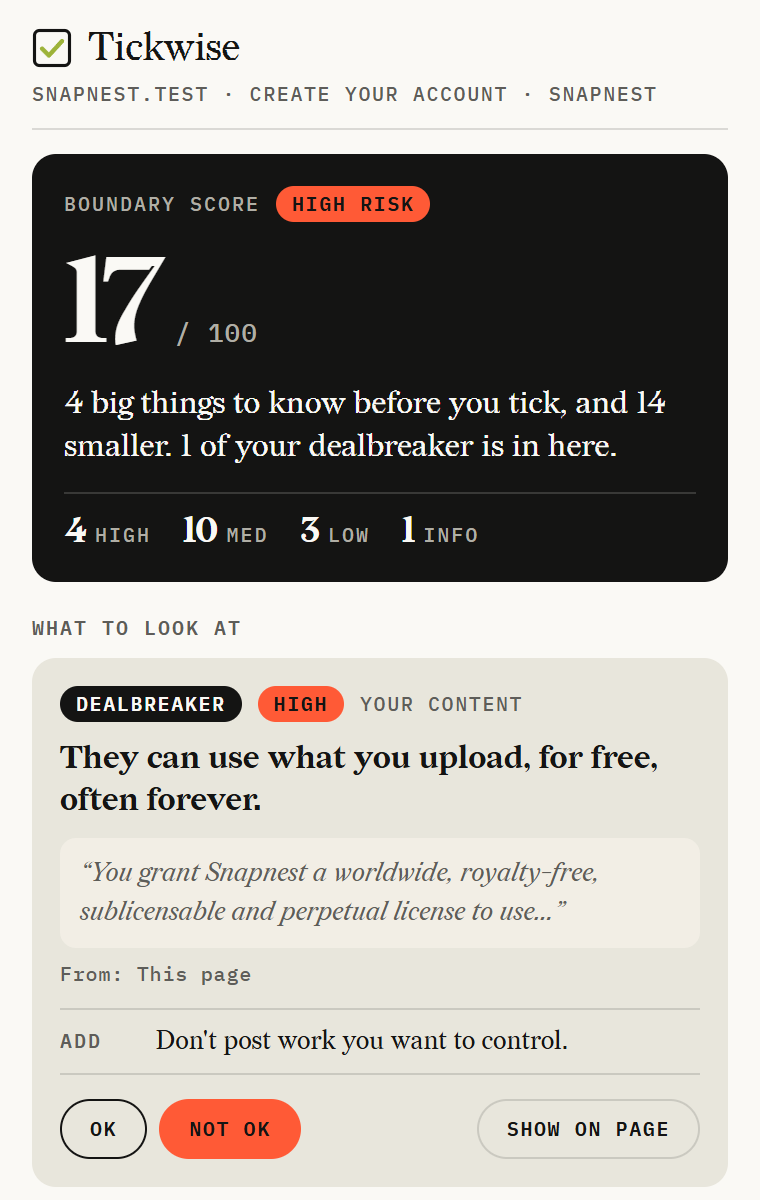
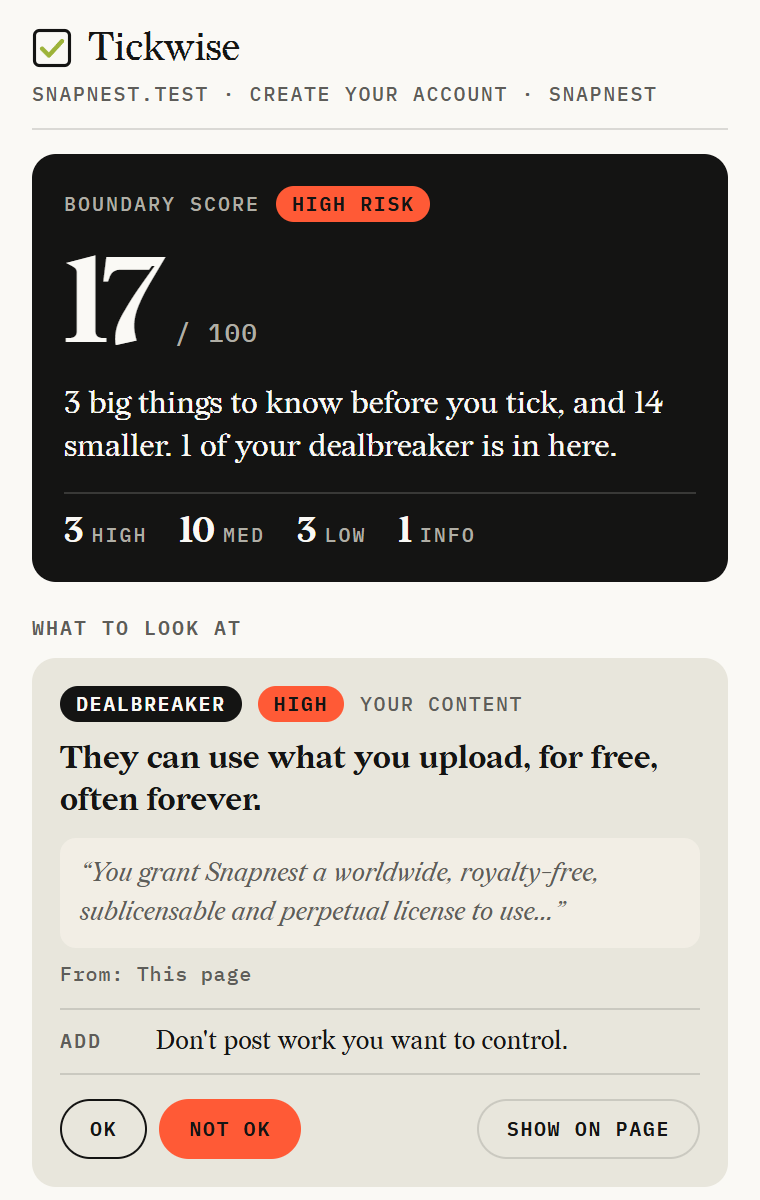
Merge the arbitration and jury-waiver cards into one disputes card
Both rules usually quote the same sentence, so readers saw the same point
twice. They now share one card with a combined summary; OK / Not OK sets
both rules, and the toolbar badge counts the flags actually shown.
Scoring is unchanged (still per rule).

diff --git a/app/main.ts b/app/main.ts
@@ -1,5 +1,6 @@
 import { adviceFor } from "../src/advice.ts";
 import { clipAround } from "../src/clip.ts";
+import { kindOf, kindSay, rulesOfKind } from "../src/kinds.ts";
 import { analyze } from "../src/engine.ts";
 import { boundaryScore } from "../src/score.ts";
 import type { Category, Flag, Severity } from "../src/types.ts";
@@ -138,6 +139,11 @@ function status(text: string): void {
   statusEl.textContent = text;
 }
 
+/** The card an item goes on: its rule's kind, or its own for an AI point. */
+function kindKey(item: Item): string {
+  return item.ruleId ? kindOf(item.ruleId) : `ai:${item.key}`;
+}
+
 function isDealbreaker(item: Item): boolean {
   return item.ruleId !== null && prefs[item.ruleId] === "notok";
 }
@@ -187,10 +193,10 @@ function renderSummary(): void {
   summaryEl.className = `hero band-${label === "Low risk" ? "ok" : label === "Think twice" ? "warn" : "bad"}`;
   const num = h("p", "num", String(score));
   num.append(h("small", "", "/ 100"));
-  const deals = new Set(items.filter(isDealbreaker).map((i) => i.ruleId)).size;
+  const deals = new Set(items.filter(isDealbreaker).map(kindKey)).size;
   const line = h("p", "line");
-  const kinds = new Set(items.map((i) => i.ruleId ?? `ai:${i.key}`)).size;
-  const big = new Set(items.filter((i) => i.severity === "high").map((i) => i.ruleId ?? `ai:${i.key}`)).size;
+  const kinds = new Set(items.map(kindKey)).size;
+  const big = new Set(items.filter((i) => i.severity === "high").map(kindKey)).size;
   line.append(big ? `${big} big ${big === 1 ? "thing" : "things"} to know before you tick, and ${kinds - big} smaller.` : `${kinds} ${kinds === 1 ? "thing" : "things"} to know before you tick, none of them high risk.`);
   if (deals) line.append(` ${deals} of your dealbreaker${deals === 1 ? " is" : "s are"} in here.`);
   const k = h("p", "k", "Boundary score");
@@ -198,7 +204,7 @@ function renderSummary(): void {
   const tally = h("div", "tally");
   for (const [sev, name] of [["high", "High"], ["medium", "Med"], ["low", "Low"]] as const) {
     const cell = h("div");
-    cell.append(h("b", "", String(new Set(items.filter((i) => i.severity === sev).map((i) => i.ruleId ?? `ai:${i.key}`)).size)), h("span", "", name));
+    cell.append(h("b", "", String(new Set(items.filter((i) => i.severity === sev).map(kindKey)).size)), h("span", "", name));
     tally.append(cell);
   }
   summaryEl.append(k, num, line, tally);
@@ -221,15 +227,18 @@ function renderCards(): void {
       .sort((a, b) => Number(isDealbreaker(b)) - Number(isDealbreaker(a)) || a.start - b.start || Number(a.ai) - Number(b.ai));
     if (!group.length) continue;
     for (const item of group) {
-      const advice = adviceFor(item.ruleId, item.category);
+      const advice = adviceFor(item.ruleId && kindOf(item.ruleId), item.category);
       if (!advised.has(advice)) advisedKeys.add(item.key);
       advised.add(advice);
     }
     // One card per kind of point; repeats of the same rule fold under it.
     const kinds = new Map<string, Item[]>();
     for (const item of group) {
-      const k = item.ruleId ?? `ai:${item.key}`;
-      kinds.set(k, [...(kinds.get(k) ?? []), item]);
+      const k = kindKey(item);
+      const same = kinds.get(k) ?? [];
+      // Two rules on one card often quote the same sentence: show it once.
+      if (!same.some((o) => o.start === item.start)) same.push(item);
+      kinds.set(k, same);
     }
     const section = h("section", `group sev-${sev}`);
     section.append(h("h3", "group-title", `${SEVERITY_LABEL[sev]} (${kinds.size})`));
@@ -274,12 +283,13 @@ function renderCard(item: Item): HTMLElement {
   // Long quotes are cut to keep cards short; the full sentence is in the document panel and on hover.
   const quote = h("blockquote", "quote", clipAround(item.quote, QUOTE_MAX, item.at));
   if (item.quote.length > QUOTE_MAX) quote.title = item.quote;
-  card.append(tags, h("p", "say", item.say), quote);
+  const say = item.ruleId ? kindSay(items.filter((i) => i.ruleId && kindKey(i) === kindKey(item)).map((i) => i.ruleId!), item.say) : item.say;
+  card.append(tags, h("p", "say", say), quote);
 
   // Next move: a safeguard to add, on the first card of its kind only.
   if (advisedKeys.has(item.key)) {
     const moves = h("dl", "moves");
-    moves.append(h("dt", "", "Add"), h("dd", "", adviceFor(item.ruleId, item.category)));
+    moves.append(h("dt", "", "Add"), h("dd", "", adviceFor(item.ruleId && kindOf(item.ruleId), item.category)));
     card.append(moves);
   }
 
@@ -310,11 +320,15 @@ function renderCard(item: Item): HTMLElement {
 
 /** Clicking the active choice again clears it. Cards update in place (no re-sort under the cursor). */
 function setPref(ruleId: string, value: Choice, focusKey: string): void {
-  if (prefs[ruleId] === value) delete prefs[ruleId];
-  else prefs[ruleId] = value;
+  const kind = rulesOfKind(ruleId);
+  const clear = prefs[ruleId] === value;
+  for (const id of kind) {
+    if (clear) delete prefs[id];
+    else prefs[id] = value;
+  }
   save(PREFS_KEY, prefs);
   for (const item of items) {
-    if (item.ruleId === ruleId) document.getElementById(`card-${item.key}`)?.replaceWith(renderCard(item));
+    if (item.ruleId && kind.includes(item.ruleId)) document.getElementById(`card-${item.key}`)?.replaceWith(renderCard(item));
   }
   renderSummary();
   document.querySelector<HTMLButtonElement>(`#card-${focusKey} .choice-${value}`)?.focus();

diff --git a/extension/popup.ts b/extension/popup.ts
@@ -2,6 +2,7 @@ import { analyze } from "../src/engine.ts";
 import { boundaryScore } from "../src/score.ts";
 import { adviceFor } from "../src/advice.ts";
 import { clipAround } from "../src/clip.ts";
+import { kindOf, kindSay, rulesOfKind } from "../src/kinds.ts";
 import type { Category, Flag, Severity } from "../src/types.ts";
 import { badgeFor, compareSeen, flagKey, normalize, originPatterns, plural, pruneSeen, seenKey, textFragmentUrl, watchLine, type Seen } from "./lib.ts";
 
@@ -327,8 +328,11 @@ async function saveSeen(): Promise<void> {
 
 /** Clicking the pressed button again clears the pref. */
 async function setPref(ruleId: string, value: Pref): Promise<void> {
-  if (prefs[ruleId] === value) delete prefs[ruleId];
-  else prefs[ruleId] = value;
+  const clear = prefs[ruleId] === value;
+  for (const id of rulesOfKind(ruleId)) {
+    if (clear) delete prefs[id];
+    else prefs[id] = value;
+  }
   render();
   try {
     await ext.storage.local.set({ [PREFS_KEY]: prefs });
@@ -357,8 +361,20 @@ function mergedHits(): Hit[] {
 /** Flags grouped by rule, in report order: one group per kind of point. */
 function kindsOf(hits: Hit[]): Hit[][] {
   const kinds = new Map<string, Hit[]>();
-  for (const hit of hits) kinds.set(hit.flag.ruleId, [...(kinds.get(hit.flag.ruleId) ?? []), hit]);
+  for (const hit of hits) {
+    const kind = kindOf(hit.flag.ruleId);
+    const group = kinds.get(kind) ?? [];
+    // Two rules on one card often quote the same sentence: show it once.
+    if (!group.some((h) => normalize(h.flag.quote) === normalize(hit.flag.quote))) group.push(hit);
+    kinds.set(kind, group);
+  }
   return [...kinds.values()];
+}
+
+/** The rules that fired for this card's kind, on any document. */
+function ruleIdsOf(ruleId: string): string[] {
+  const kind = kindOf(ruleId);
+  return [...new Set(docs.flatMap((d) => d.flags.map((f) => f.ruleId)).filter((id) => kindOf(id) === kind))];
 }
 
 /** Shown straight away: high risks and your dealbreakers. */
@@ -384,7 +400,7 @@ function render(): void {
   }
 
   const hits = mergedHits();
-  setBadge(hits.filter((h) => h.flag.severity === "high").length);
+  setBadge(kindsOf(hits).flat().filter((h) => h.flag.severity === "high").length);
   main.append(scoreBlock(hits));
   // Straight under the score, not after every card, so the button is seen without scrolling.
   if (failed.length > 0) main.append(failedBlock());
@@ -396,7 +412,8 @@ function render(): void {
   const big = kinds.filter(isBig);
   const small = kinds.filter((k) => !isBig(k));
   const kindBlock = ([first, ...rest]: Hit[]): HTMLElement[] => {
-    const out: HTMLElement[] = [card(first, adviceFor(first.flag.ruleId, first.flag.category))];
+    const say = kindSay(ruleIdsOf(first.flag.ruleId), first.flag.say);
+    const out: HTMLElement[] = [card(first, adviceFor(kindOf(first.flag.ruleId), first.flag.category), say)];
     if (rest.length === 0) return out;
     const more = el("details", { className: "more" }, el("summary", { text: `${rest.length} more ${rest.length === 1 ? "place" : "places"} it says this` }), ...rest.map((h) => card(h, null)));
     if (rest.some(isNew)) more.open = true;
@@ -441,7 +458,7 @@ function scoreBlock(hits: Hit[]): HTMLElement {
   const kinds = kindsOf(hits);
   const big = kinds.filter(isBig).length;
   const line = el("p", { className: "line", text: hits.length === 0 ? "Nothing flagged." : big ? `${big} big ${big === 1 ? "thing" : "things"} to know before you tick, and ${kinds.length - big} smaller.` : `${plural(kinds.length, "thing")} to know before you tick, none of them high risk.` });
-  const deals = new Set(hits.filter((h) => prefs[h.flag.ruleId] === "notok").map((h) => h.flag.ruleId)).size;
+  const deals = new Set(hits.filter((h) => prefs[h.flag.ruleId] === "notok").map((h) => kindOf(h.flag.ruleId))).size;
   if (deals > 0) line.append(` ${deals} of your dealbreaker${deals === 1 ? " is" : "s are"} in here.`);
   const fresh = hits.filter(isNew).length;
   if (fresh > 0) line.append(` ${fresh} ${fresh === 1 ? "is" : "are"} new since you last checked.`);
@@ -481,7 +498,7 @@ function docList(): HTMLElement {
   return box;
 }
 
-function card(hit: Hit, advice: string | null): HTMLElement {
+function card(hit: Hit, advice: string | null, say = hit.flag.say): HTMLElement {
   const { flag, doc } = hit;
   const pref = prefs[flag.ruleId];
   let className = `card sev-${flag.severity}`;
@@ -514,7 +531,7 @@ function card(hit: Hit, advice: string | null): HTMLElement {
     "article",
     { className },
     meta,
-    el("p", { className: "say", text: flag.say }),
+    el("p", { className: "say", text: say }),
     quote,
     el("p", { className: "source", text: `From: ${doc.name}` }),
     ...(advice ? [el("dl", { className: "advice" }, el("dt", { text: "Add" }), el("dd", { text: advice }))] : []),

diff --git a/scripts/test-firefox.ts b/scripts/test-firefox.ts
@@ -199,8 +199,9 @@ async function main(): Promise<void> {
     check("it read this page and the Privacy Policy", ["This page: First check", "Privacy Policy: First check"].every((d) => report?.docs.includes(d)), report?.docs.join(" | "));
     check("flags have Show on page / Open and show", report?.show.includes("Show on page") && report?.show.includes("Open and show"));
     check("the Cookie Policy on another site waits for Allow", report?.unread.join() === "Cookie Policy", report?.unread.join());
+    // 3: the arbitration and jury-waiver flags quote the same sentence and show as one.
     const badge = await bidi.json(chrome, `({ text: ${actionFor}.action.getProperty(gBrowser.selectedTab, "badgeText"), title: ${actionFor}.action.getProperty(gBrowser.selectedTab, "title") })`);
-    check("toolbar badge shows the high-risk count", badge.text === "4", `"${badge.text}", "${badge.title}"`);
+    check("toolbar badge shows the high-risk count", badge.text === "3", `"${badge.text}", "${badge.title}"`);
 
     // 2. Show on page, pressed in the popup: the sentence is highlighted in the tab.
     await inPopup(`const card = [...doc.querySelectorAll(".card")].find((c) => c.querySelector(".source").textContent === "From: This page" && /binding individual arbitration/.test(c.querySelector(".quote").title || c.querySelector(".quote").textContent));

diff --git a/src/kinds.ts b/src/kinds.ts
@@ -1,0 +1,28 @@
+// Rules that make the same point to a reader get one card. Arbitration and the class-action / jury waiver
+// usually sit in the same clause and quote the same sentence, so they show as one "disputes" card.
+// Scoring still counts each rule; only the report groups them.
+
+const SAME_AS: Record<string, string> = { class_action_waiver: "arbitration" };
+
+/** The card a rule's flags go on. */
+export function kindOf(ruleId: string): string {
+  return SAME_AS[ruleId] ?? ruleId;
+}
+
+/** Every rule shown on the same card as this one (OK / Not OK applies to all of them). */
+export function rulesOfKind(ruleId: string): string[] {
+  const kind = kindOf(ruleId);
+  return [kind, ...Object.keys(SAME_AS).filter((id) => SAME_AS[id] === kind)];
+}
+
+/** The summary for a card that holds more than one rule. */
+const MERGED_SAY: Record<string, string> = {
+  arbitration: "Disputes go to private arbitration, and you give up jury trials and group lawsuits.",
+};
+
+/** The card's summary: the merged one when the card holds several rules, else the rule's own. */
+export function kindSay(ruleIds: Iterable<string>, fallback: string): string {
+  const ids = new Set(ruleIds);
+  const kind = kindOf([...ids][0] ?? "");
+  return ids.size > 1 && MERGED_SAY[kind] ? MERGED_SAY[kind] : fallback;
+}

diff --git a/test/kinds.test.ts b/test/kinds.test.ts
@@ -1,0 +1,19 @@
+import { test } from "node:test";
+import assert from "node:assert/strict";
+import { kindOf, kindSay, rulesOfKind } from "../src/kinds.ts";
+
+test("the jury / class-action waiver shares the arbitration card", () => {
+  assert.equal(kindOf("class_action_waiver"), "arbitration");
+  assert.equal(kindOf("arbitration"), "arbitration");
+  assert.equal(kindOf("sells_data"), "sells_data");
+});
+
+test("OK / Not OK on the card covers both rules", () => {
+  assert.deepEqual(rulesOfKind("class_action_waiver"), ["arbitration", "class_action_waiver"]);
+  assert.deepEqual(rulesOfKind("sells_data"), ["sells_data"]);
+});
+
+test("the merged summary shows only when both rules fired", () => {
+  assert.match(kindSay(["arbitration", "class_action_waiver"], "x"), /arbitration.*jury/);
+  assert.equal(kindSay(["class_action_waiver"], "own"), "own");
+});

diff --git a/src/advice.ts b/src/advice.ts
@@ -14,7 +14,7 @@ const BY_RULE: Record<string, string> = {
   broad_content_license: "Don't post work you want to control.",
   ai_training: "Turn off \"improve the model\" and keep secrets out.",
   content_removal: "Read the community rules first.",
-  arbitration: "Look for an opt-out or small-claims option.",
+  arbitration: "Look for an opt-out. CASE, Singapore's consumer body, can still help.",
   class_action_waiver: "You can still complain to CASE, Singapore's consumer body.",
   unilateral_change: "Keep email alerts on for term changes.",
   unilateral_termination: "Back up your photos, chats and saves.",
